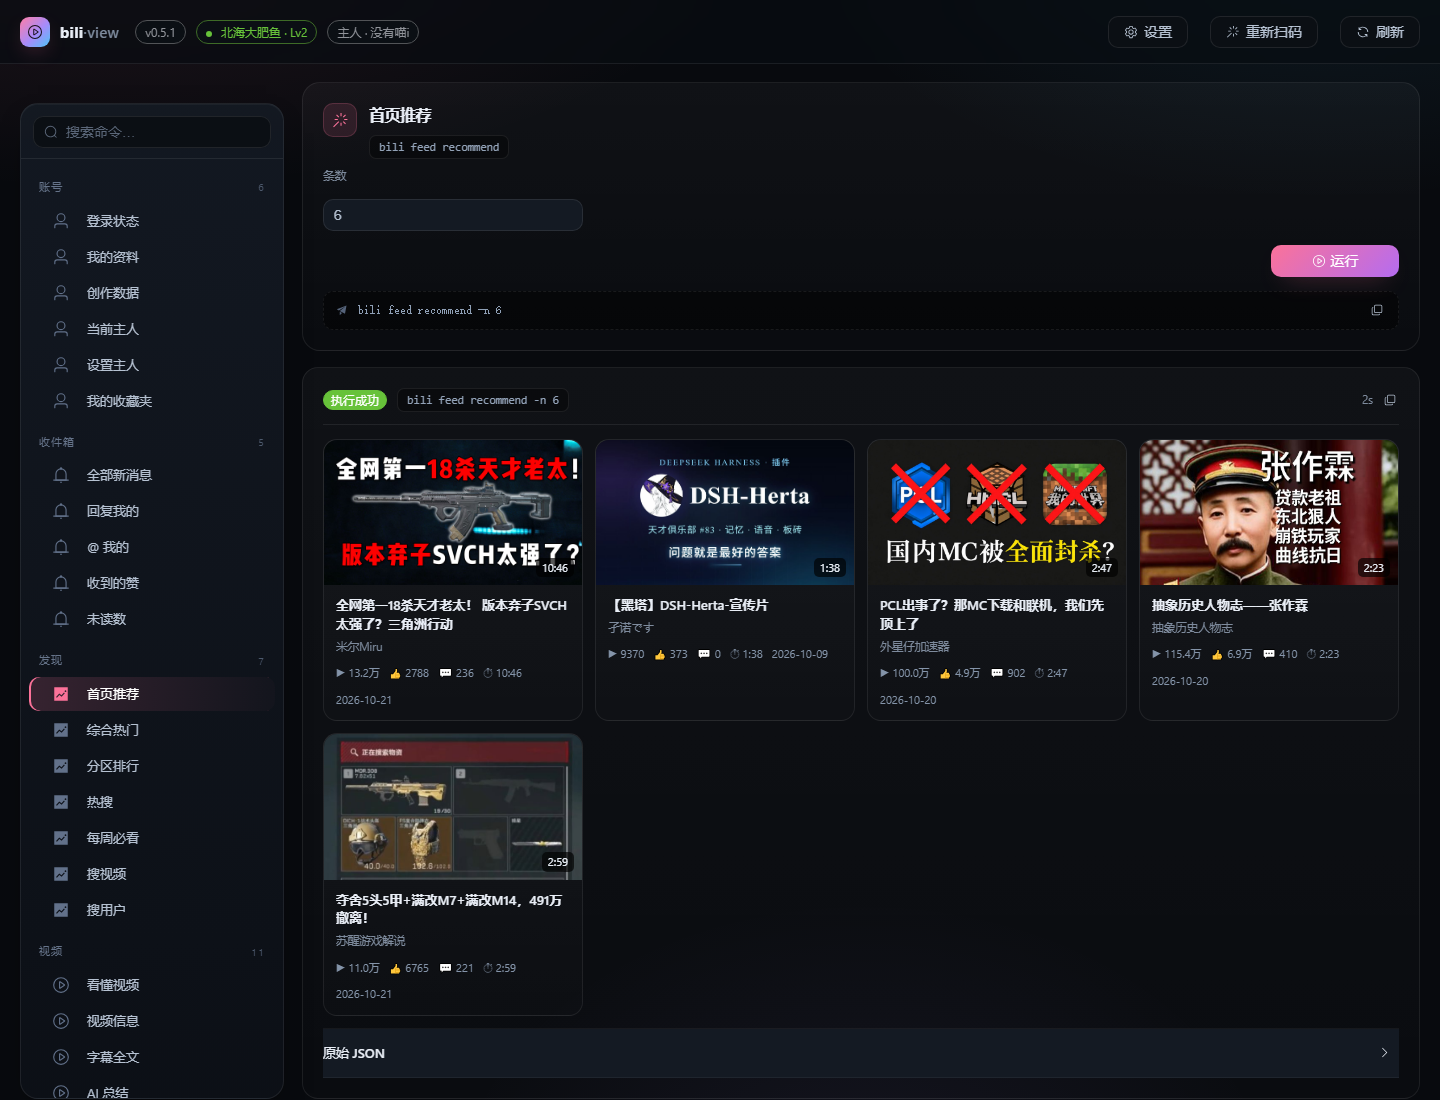
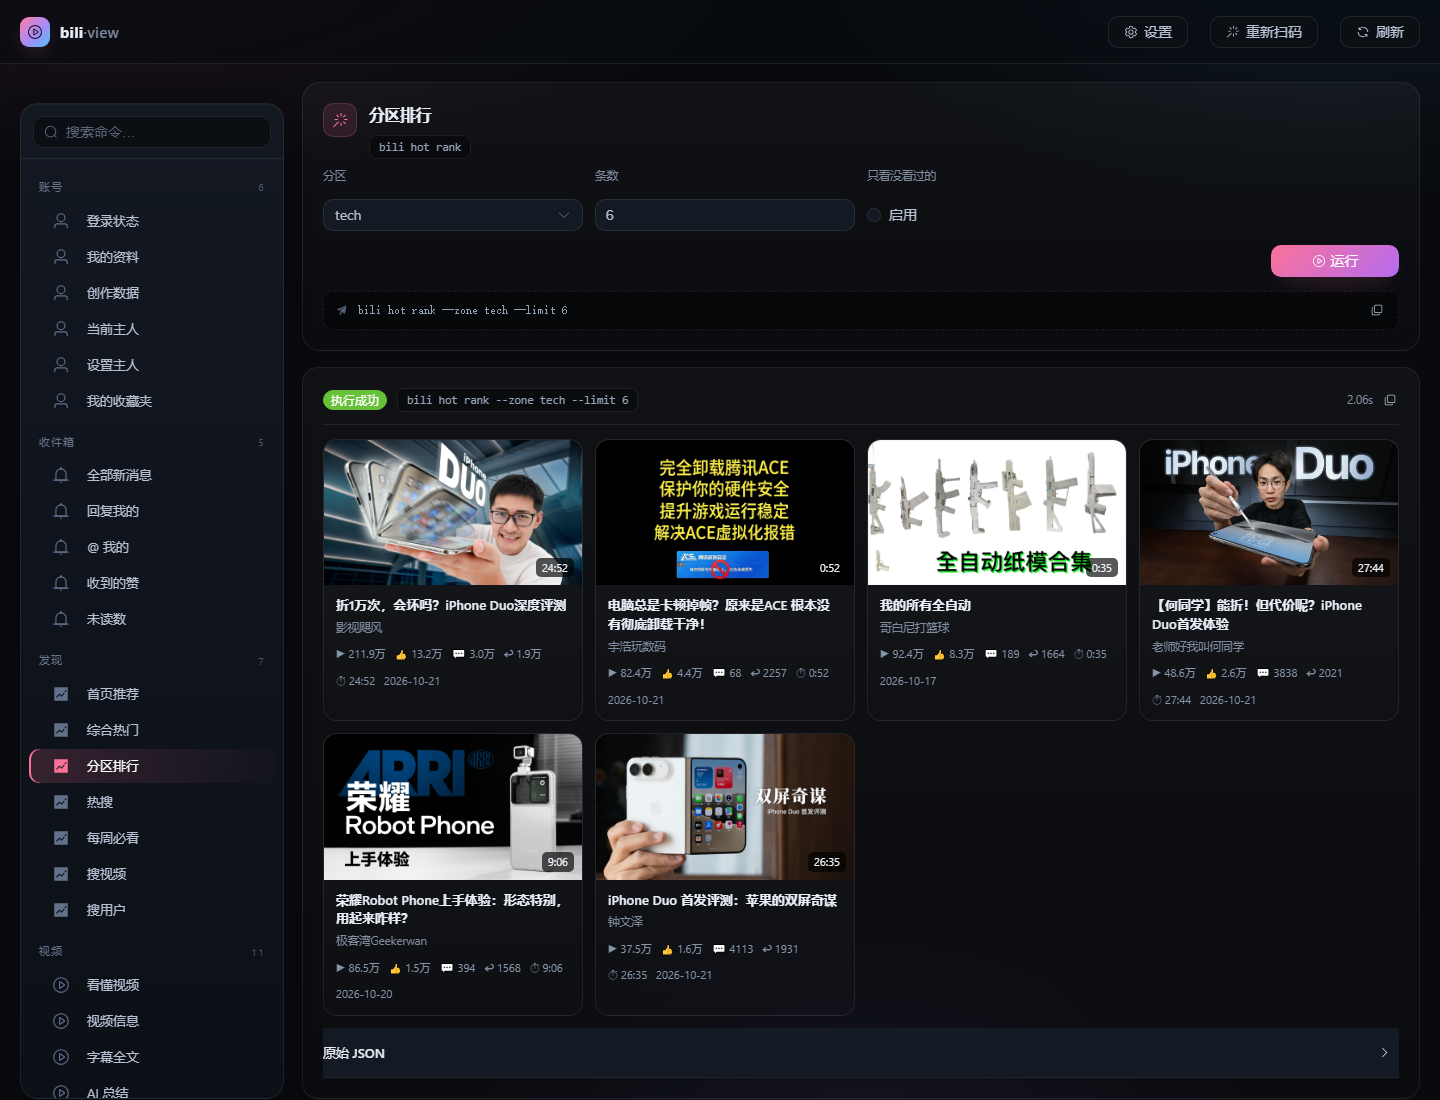
chore: 截图脱敏 + 换人使用说明
- 新增 ?demo=1：隐藏顶栏版本/账号/主人 chip，截图用
- 重拍截图（分区排行 / 热门评测，不含个人推荐流）
- el-tag 加 disable-transitions，headless 截图不再卡在进场动画
- 示例 UID 换成假号 12345678
- README 增加「换个人用 / 多台机器」：凭证只在本机，扫码即换账号

diff --git a/src/App.vue b/src/App.vue
@@ -21,6 +21,8 @@ const loginOpen = ref(false)
 const runnerRef = ref<InstanceType<typeof CommandRunner> | null>(null)
 const initialValues = ref<Record<string, string>>({})
 const autoRun = ref(false)
+/** ?demo=1：隐藏版本/账号/主人这三个 chip，方便截公开截图。 */
+const demo = ref(false)
 
 const { notify } = useToast()
 
@@ -67,6 +69,7 @@ onMounted(async () => {
   void loadMeta()
 
   const qs = new URLSearchParams(location.search)
+  demo.value = qs.get('demo') === '1'
   if (qs.get('settings') === '1') settingsOpen.value = true
   if (qs.get('login') === '1') loginOpen.value = true
   const cmdId = qs.get('cmd')
@@ -93,15 +96,15 @@ onMounted(async () => {
         <div class="brand-name">bili<span>·view</span></div>
       </div>
 
-      <el-tag round effect="plain" type="info" size="default">v{{ meta?.version ?? '…' }}</el-tag>
-      <el-tag round :type="loggedIn ? 'success' : 'danger'" effect="plain">
+      <el-tag v-if="!demo" round effect="plain" type="info" size="default">v{{ meta?.version ?? '…' }}</el-tag>
+      <el-tag v-if="!demo" round :type="loggedIn ? 'success' : 'danger'" effect="plain">
         <span
           v-if="loggedIn"
           style="display: inline-block; width: 6px; height: 6px; border-radius: 50%; background: currentColor; margin-right: 6px"
         />
         {{ loggedIn ? `${meta?.auth.user?.name} · Lv${level}` : '未登录' }}
       </el-tag>
-      <el-tag v-if="meta?.owner" round effect="plain" type="info">主人 · {{ meta.owner.name }}</el-tag>
+      <el-tag v-if="!demo && meta?.owner" round effect="plain" type="info">主人 · {{ meta.owner.name }}</el-tag>
 
       <span class="spacer" />
 

diff --git a/src/components/ResultCard.vue b/src/components/ResultCard.vue
@@ -25,7 +25,7 @@ async function copyJson() {
 <template>
   <el-card class="result-card" :class="{ 'is-error': !ok }" shadow="never">
     <div class="res-head">
-      <el-tag :type="ok ? 'success' : 'danger'" effect="dark" round size="small">
+      <el-tag :type="ok ? 'success' : 'danger'" effect="dark" round size="small" disable-transitions>
         {{ ok ? '执行成功' : `失败 · ${result.code ?? ''}` }}
       </el-tag>
       <span class="cmd-chip">bili {{ result.argv.join(' ') }}</span>

diff --git a/src/components/WatchView.vue b/src/components/WatchView.vue
@@ -46,6 +46,7 @@ const sheet = computed(() =>
         :key="tag"
         size="small"
         effect="plain"
+        disable-transitions
         style="margin: 0 6px 6px 0"
         >{{ tag }}</el-tag
       >

diff --git a/backend/app/catalog.py b/backend/app/catalog.py
@@ -32,7 +32,7 @@ CATALOG: list[dict[str, Any]] = [
         {"id": "me.stats", "label": "创作数据", "argv": ["me", "stats"]},
         {"id": "owner.show", "label": "当前主人", "argv": ["owner", "show"]},
         {"id": "owner.set", "label": "设置主人", "argv": ["owner", "set"],
-         "params": [p("uid", "UID / 昵称", pos=True, ph="3747573877706483")]},
+         "params": [p("uid", "UID / 昵称", pos=True, ph="12345678")]},
         {"id": "me.favs", "label": "我的收藏夹", "argv": ["me", "favs"]},
     ]},
     {"group": "收件箱", "items": [
